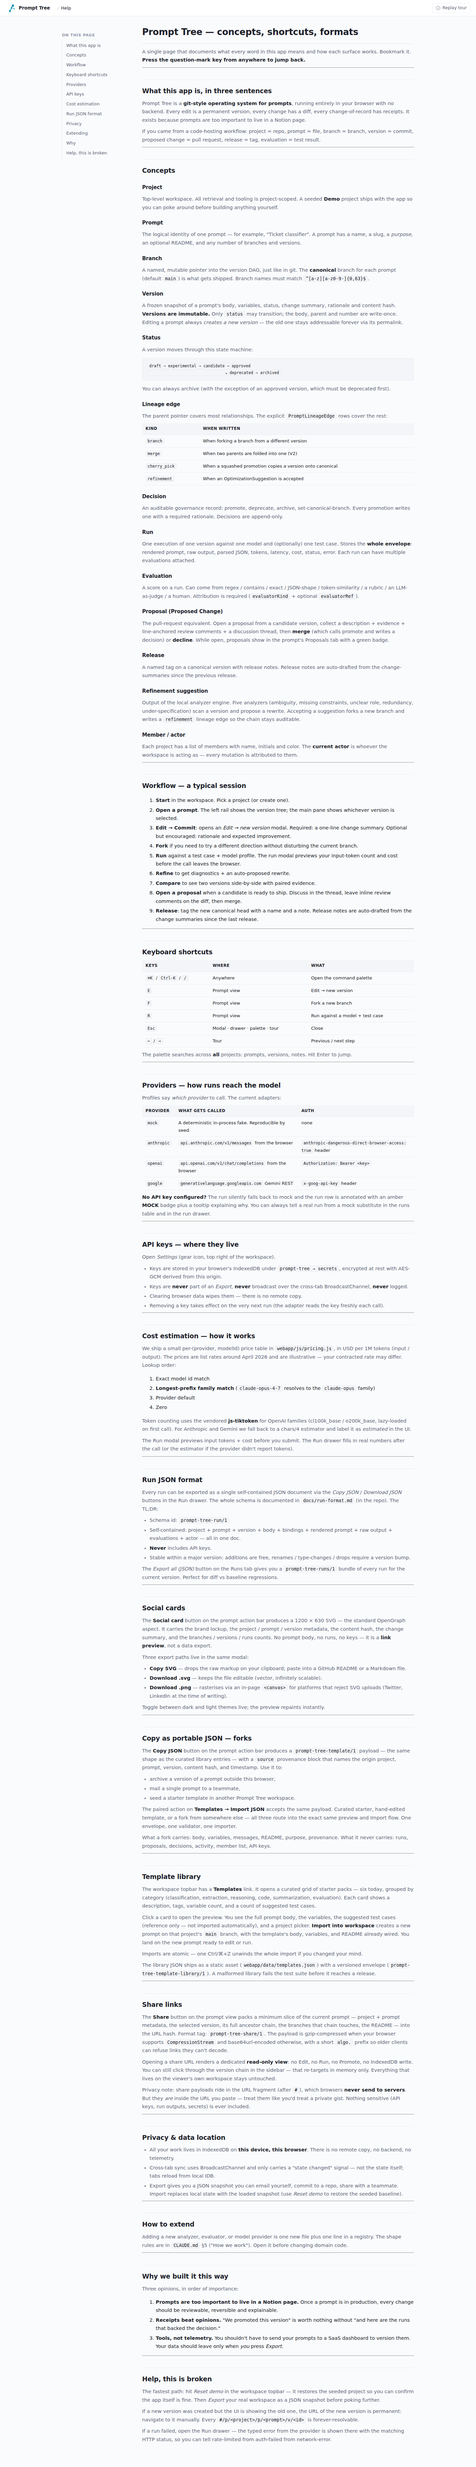
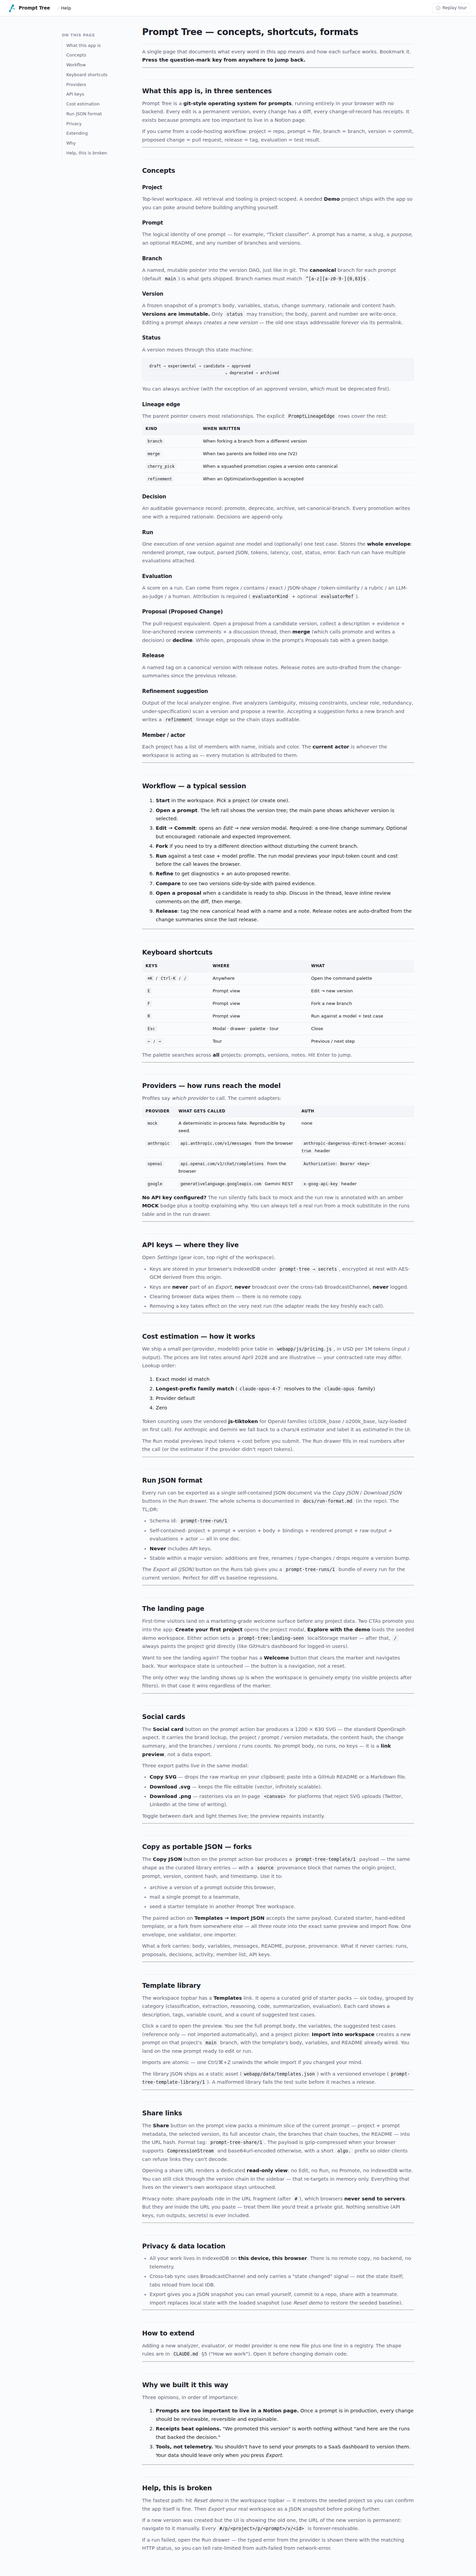
landing: fix demo CTA + state-aware primary, add Go-to-workspace path
Two fixes + one new path, all traced back to the user-reported "Explore
with the demo doesn't work":

1. Root-cause the double-render flash. The old handler called
   resetTo() BEFORE markLandingSeen(). resetTo's notify() triggered a
   re-render in which hasSeenLanding() was still false — so the
   landing re-rendered on top of the fresh state, only to flip to the
   grid on the follow-up navigate(). On slow machines or in real UX
   it read as "nothing happens". Now the marker is set first, so the
   post-resetTo render lands directly on the grid.

2. Add proper error handling. The handler silently toasted "Loaded
   the demo" even when seed.json returned an empty payload or HTTP
   500. Now: the button disables mid-click, a clean "Demo failed to
   load: <reason>" toast surfaces on failure, the marker is only set
   on success, and the button re-enables so the user can retry.

3. New state-aware CTA row. When the visitor reaches the landing via
   the Welcome button with projects already in state, offering
   "Explore with the demo" is actively dangerous — it would reset
   their workspace. The landing now branches its primary CTA on
   visibleProjects.length:
     • Empty   → Create your first project + Explore with the demo
     • Has any → Go to your workspace + Create a new project
   The second path never calls resetTo; it's pure navigation that
   flips the marker and re-renders the grid. The populated topbar
[…]

Changed region(s): [[0.2764, 0.0, 0.86, 0.997], [0.1229, 0.0, 0.215, 0.0623]]

diff --git a/scripts/landing-smoke.js b/scripts/landing-smoke.js
@@ -158,12 +158,13 @@ function fail(msg) { console.error("FAIL:", msg); process.exit(1); }
     await page.context().close();
   }
 
-  // ───────────── Test 4: gate — seeded workspace + no marker → landing ──
+  // ───────────── Test 4a: fresh visitor with real seed → landing first ──
   {
-    // Fresh context, no marker preset, real seed lands in IDB. We expect
-    // the landing page FIRST (not the grid) because the visitor hasn't
-    // acknowledged it yet. GitHub-style: marketing surface before
-    // dashboard until the user "signs in" (= takes a CTA).
+    // No marker preset, real seed auto-loads into IDB on boot. We
+    // expect the landing FIRST (not the grid) because the visitor
+    // hasn't acknowledged it. Because the visitor *has* projects
+    // (the seed), the hero CTAs must be Go-to-workspace + New-project
+    // — NOT Explore-with-the-demo (which would reset their data).
     const ctx = await browser.newContext({ viewport: { width: 1400, height: 900 } });
     await ctx.addInitScript(() => { try { localStorage.setItem("prompt-tree:tour:completed", "1"); } catch {} });
     const page = await ctx.newPage();
@@ -172,32 +173,136 @@ function fail(msg) { console.error("FAIL:", msg); process.exit(1); }
 
     await page.goto("http://localhost:4497/", { waitUntil: "networkidle" });
     await wait(500);
-    const heroVisible = await page.$(".landing-hero");
-    if (!heroVisible) fail("fresh visit with seeded demo should still show the landing first");
+    if (!(await page.$(".landing-hero"))) fail("fresh visit with seeded demo should still show the landing first");
 
-    // Click Explore-with-the-demo → flag should be set + grid appears.
-    await page.click('[data-act="load-demo"]');
-    await wait(800);
+    // Safety: if the visitor has projects, the demo CTA must be hidden
+    // and the go-to-workspace CTA must be present.
+    if (await page.$('.landing-ctas [data-act="load-demo"]')) {
+      fail("landing with existing projects must NOT show the Explore-with-the-demo CTA (would wipe data)");
+    }
+    if (!(await page.$('.landing-ctas [data-act="enter-workspace"]'))) {
+      fail("landing with existing projects must show a Go-to-workspace CTA");
+    }
+
+    // Clicking Go-to-workspace flips the marker + shows the grid, with
+    // the project list left intact.
+    const countBefore = await page.evaluate(async () => {
+      const s = await import("/js/store.js"); return (s.getState().projects || []).length;
+    });
+    await page.click('.landing-ctas [data-act="enter-workspace"]');
+    await wait(500);
     const flag = await page.evaluate(() => localStorage.getItem("prompt-tree:landing-seen"));
-    if (flag !== "1") fail(`expected landing-seen=1 after CTA, got ${flag}`);
-    const gridCards = await page.$$eval(".cards-grid > .card", (xs) => xs.length);
-    if (gridCards < 1) fail("after the CTA, grid should paint");
+    if (flag !== "1") fail(`expected landing-seen=1 after Go-to-workspace, got ${flag}`);
+    const cards = await page.$$eval(".cards-grid > .card", (xs) => xs.length);
+    if (cards < 1) fail(`Go-to-workspace did not paint the grid: ${cards} cards`);
+    const countAfter = await page.evaluate(async () => {
+      const s = await import("/js/store.js"); return (s.getState().projects || []).length;
+    });
+    if (countBefore !== countAfter) fail(`Go-to-workspace mutated state: ${countBefore} → ${countAfter}`);
 
-    // Reload — the visitor should now land on the grid directly, never
-    // on the landing again, until they clear the marker.
+    // Reload — the visitor should now land on the grid directly.
     await page.reload({ waitUntil: "networkidle" });
     await wait(400);
-    const landingOnSecondVisit = await page.$(".landing-hero");
-    if (landingOnSecondVisit) fail("returning visitor with marker should skip the landing");
+    if (await page.$(".landing-hero")) fail("returning visitor with marker should skip the landing");
 
     // The topbar "Welcome" action clears the marker and re-shows it.
     await page.click('[data-act="show-landing"]');
     await wait(400);
-    const landingAfterWelcome = await page.$(".landing-hero");
-    if (!landingAfterWelcome) fail("Welcome topbar action should re-reveal the landing");
+    if (!(await page.$(".landing-hero"))) fail("Welcome topbar action should re-reveal the landing");
 
-    if (errs.length) fail("test 4 console errors: " + errs.join(" | "));
-    console.log("✓ test 4: fresh → landing, CTA → flag + grid, return visit skips landing, Welcome re-reveals");
+    if (errs.length) fail("test 4a console errors: " + errs.join(" | "));
+    console.log("✓ test 4a: seeded visitor lands on landing → Go-to-workspace keeps data + paints grid; Welcome re-reveals landing");
+    await ctx.close();
+  }
+
+  // ───────────── Test 4b: empty seed + no marker → demo CTA works ──────
+  {
+    // Genuinely-new install path: no marker, empty seed. Clicking the
+    // Explore-with-the-demo CTA MUST:
+    //   - Fetch the real seed (we drop the stub after boot)
+    //   - Populate state with ≥ 1 project
+    //   - Set the marker
+    //   - Navigate to the grid (landing gone, cards present)
+    const ctx = await browser.newContext({ viewport: { width: 1400, height: 900 } });
+    let boot = true;
+    await ctx.route("**/data/seed.json", (route) => {
+      if (boot) {
+        boot = false;
+        route.fulfill({
+          status: 200, contentType: "application/json",
+          body: JSON.stringify({ meta: { updatedAt: 0, revision: 0, schemaVersion: 1, author: null }, projects: [] }),
+        });
+      } else {
+        // Let the real file through for the CTA fetch.
+        route.fallback();
+      }
+    });
+    await ctx.addInitScript(() => { try { localStorage.setItem("prompt-tree:tour:completed", "1"); } catch {} });
+    const page = await ctx.newPage();
+    const errs = [];
+    page.on("console", (m) => { if (m.type() === "error") errs.push("console: " + m.text()); });
+
+    await page.goto("http://localhost:4497/", { waitUntil: "networkidle" });
+    await wait(400);
+    if (!(await page.$(".landing-ctas [data-act=\"load-demo\"]"))) {
+      fail("empty seed + no marker must render the Explore-with-the-demo CTA");
+    }
+
+    await page.click('[data-act="load-demo"]');
+    await wait(900);
+    const flag = await page.evaluate(() => localStorage.getItem("prompt-tree:landing-seen"));
+    if (flag !== "1") fail(`load-demo must set the marker, got ${flag}`);
+    const cards = await page.$$eval(".cards-grid > .card", (xs) => xs.length);
+    if (cards < 1) fail(`load-demo must paint the grid: got ${cards} cards`);
+    const projects = await page.evaluate(async () => {
+      const s = await import("/js/store.js");
+      return (s.getState().projects || []).map((p) => p.slug);
+    });
+    if (!projects.includes("demo")) fail(`load-demo must populate state with the demo project; got ${JSON.stringify(projects)}`);
+    if (await page.$(".landing-hero")) fail("load-demo must leave the landing");
+
+    if (errs.length) fail("test 4b console errors: " + errs.join(" | "));
+    console.log("✓ test 4b: empty seed → load-demo CTA fetches real seed, sets marker, navigates to populated grid");
+    await ctx.close();
+  }
+
+  // ───────────── Test 5: Explore-demo surfaces a clean error when seed is broken ─
+  {
+    const ctx = await browser.newContext({ viewport: { width: 1400, height: 900 } });
+    await ctx.addInitScript(() => { try { localStorage.setItem("prompt-tree:tour:completed", "1"); } catch {} });
+    // First response on boot is OK so the landing paints. We'll switch
+    // to the broken response for the CTA fetch.
+    let boot = true;
+    await ctx.route("**/data/seed.json", (route) => {
+      if (boot) {
+        boot = false;
+        route.fulfill({
+          status: 200, contentType: "application/json",
+          body: JSON.stringify({ meta: { updatedAt: 0, revision: 0, schemaVersion: 1, author: null }, projects: [] }),
+        });
+      } else {
+        route.fulfill({ status: 500, contentType: "text/plain", body: "boom" });
+      }
+    });
+    const page = await ctx.newPage();
+    await page.goto("http://localhost:4497/", { waitUntil: "networkidle" });
+    await wait(400);
+
+    await page.click('[data-act="load-demo"]');
+    await wait(600);
+    const toastText = await page.$eval("#toast", (el) => el.textContent.trim()).catch(() => "");
+    if (!/Demo failed/i.test(toastText)) {
+      fail(`expected a 'Demo failed' toast on broken seed, got: '${toastText}'`);
+    }
+    const flag = await page.evaluate(() => localStorage.getItem("prompt-tree:landing-seen"));
+    if (flag === "1") fail("landing-seen must NOT be set when demo load fails");
+    const stillOnLanding = !!(await page.$(".landing-hero"));
+    if (!stillOnLanding) fail("broken demo fetch: visitor must stay on the landing");
+    // Button must be re-enabled so the user can retry.
+    const disabled = await page.$eval('[data-act="load-demo"]', (el) => el.disabled);
+    if (disabled) fail("load-demo button stuck in disabled state after an error");
+
+    console.log("✓ test 5: broken seed → error toast, landing stays, flag not set, button re-enabled");
     await ctx.close();
   }
 

diff --git a/webapp/js/views/workspace.js b/webapp/js/views/workspace.js
@@ -92,12 +92,37 @@ function projectsGrid(projects) {
 }
 
 // ---------------------------------------------------------------------------
-// Landing page (E1) — only reachable when projects.length === 0. Sells what
-// the app is, directly; two CTAs (create project, load the seeded demo) +
-// a Templates link. No topbar action row — we want the first impression
-// uncluttered.
+// Landing page (E1). Two modes, keyed on whether the visitor already has
+// visible projects:
+//
+//   • Empty workspace → "Create your first project" + "Explore with the demo"
+//     (the classic first-impression surface for brand-new visitors).
+//   • Has projects   → "Go to your workspace" + "Create a new project"
+//     (the visitor reached the landing via the Welcome button and just
+//     wants back in — we don't offer the demo-reset here because it
+//     would wipe their actual workspace).
+//
+// The topbar stays minimal: no export/import/reset row; just brand +
+// Templates + Help + Theme so the first impression stays focused.
 // ---------------------------------------------------------------------------
 function renderLanding() {
+  const s = getState();
+  const visibleProjects = (s.projects || []).filter((p) => !p.archivedAt && !p.deletedAt);
+  const hasProjects = visibleProjects.length > 0;
+
+  const ctas = hasProjects ? `
+    <button class="btn accent lg" data-act="enter-workspace">${icon("arrow", { size: 14 })} Go to your workspace</button>
+    <button class="btn lg" data-act="new-project">${icon("plus", { size: 14 })} Create a new project</button>
+  ` : `
+    <button class="btn accent lg" data-act="new-project">${icon("plus", { size: 14 })} Create your first project</button>
+    <button class="btn lg" data-act="load-demo">${icon("play", { size: 14 })} Explore with the demo</button>
+  `;
+
+  const subCta = hasProjects
+    ? `You have <strong>${visibleProjects.length}</strong> project${visibleProjects.length === 1 ? "" : "s"} already.
+       Or <a href="#/templates">browse the template library</a> for curated starter prompts.`
+    : `Or <a href="#/templates">browse the template library</a> — six curated starter prompts ready to import.`;
+
   return html`
     <div class="topbar topbar-landing">
       <a class="topbar-logo" href="#/">
@@ -105,6 +130,7 @@ function renderLanding() {
         Prompt Tree
       </a>
       <span class="topbar-spacer"></span>
+      ${hasProjects ? `<button class="topbar-action" data-act="enter-workspace">${icon("arrow", { size: 13 })} Workspace</button>` : ""}
       <a class="topbar-action" href="#/templates">${icon("rubric", { size: 13 })} Templates</a>
       <a class="topbar-action" href="#/help">${icon("info", { size: 13 })} Help</a>
       <button class="topbar-action" data-act="theme">${icon(currentTheme() === "dark" ? "sun" : "moon", { size: 13 })}</button>
@@ -125,11 +151,10 @@ function renderLanding() {
           browser. No backend, no telemetry, no lock-in.
         </p>
         <div class="landing-ctas reveal reveal-ctas">
-          <button class="btn accent lg" data-act="new-project">${icon("plus", { size: 14 })} Create your first project</button>
-          <button class="btn lg" data-act="load-demo">${icon("play", { size: 14 })} Explore with the demo</button>
+          ${ctas}
         </div>
         <div class="landing-subcta reveal reveal-subcta">
-          Or <a href="#/templates">browse the template library</a> — six curated starter prompts ready to import.
+          ${subCta}
         </div>
       </section>
 
@@ -213,16 +238,43 @@ export function bindWorkspace(root) {
 
   // Landing-page specific: load the seeded demo into an empty workspace.
   // Reuses the same `resetTo` path the topbar "Reset demo" uses; no
-  // confirm dialog because there's literally nothing to lose. Setting
-  // the landing-seen marker is what promotes the visitor from the
-  // marketing surface to the workspace proper.
-  root.querySelector('[data-act="load-demo"]')?.addEventListener("click", async () => {
-    const seed = await fetch("./data/seed.json").then((r) => r.json());
-    const { resetTo } = await import("../store.js");
-    await resetTo(seed);
-    markLandingSeen();
-    toast("Loaded the demo");
-    navigate("/");
+  // confirm dialog because there's literally nothing to lose. The
+  // marker is set BEFORE resetTo so the notify() that fires from
+  // resetTo's state replacement renders directly onto the grid — no
+  // flash of the landing re-appearing in between.
+  root.querySelector('[data-act="load-demo"]')?.addEventListener("click", async (e) => {
+    const btn = e.currentTarget;
+    if (btn.disabled) return;
+    btn.disabled = true;
+    try {
+      const res = await fetch("./data/seed.json", { cache: "no-cache" });
+      if (!res.ok) throw new Error(`seed.json returned HTTP ${res.status}`);
+      const seed = await res.json();
+      if (!seed || !Array.isArray(seed.projects) || seed.projects.length === 0) {
+        throw new Error("seed.json carries no projects");
+      }
+      markLandingSeen();
+      const { resetTo } = await import("../store.js");
+      await resetTo(seed);
+      toast("Loaded the demo");
+      navigate("/");
+    } catch (err) {
+      console.error("load-demo failed:", err);
+      toast("Demo failed to load: " + (err.message || err));
+      btn.disabled = false;
+    }
+  });
+
+  // Landing → grid: direct escape hatch for returning users who hit
+  // the landing via the Welcome button and just want back in. Does
+  // NOT reset state — purely a marker flip + navigate. There can be
+  // multiple of these on the page (hero CTA + topbar shortcut), so
+  // wire all of them.
+  root.querySelectorAll('[data-act="enter-workspace"]').forEach((el) => {
+    el.addEventListener("click", () => {
+      markLandingSeen();
+      navigate("/");
+    });
   });
 
   root.querySelector('[data-act="export"]')?.addEventListener("click", async () => {

diff --git a/webapp/js/views/help.js b/webapp/js/views/help.js
@@ -240,7 +240,11 @@ logged-in users).
 
 Want to see the landing again? The topbar has a **Welcome** button
 that clears the marker and navigates back. Your workspace state is
-untouched — the button is a navigation, not a reset.
+untouched — the button is a navigation, not a reset. When you come
+back to the landing this way, the primary CTA becomes **Go to your
+workspace** (a straight re-entry, *never* a data reset) and the
+demo-loader option disappears so your projects are safe from an
+accidental click.
 
 The only other way the landing shows up is when the workspace is
 genuinely empty (no visible projects after filters). In that case it

diff --git a/CLAUDE.md b/CLAUDE.md
@@ -176,7 +176,16 @@ prompts. Where competitors collect prompts, we **graduate** them.
   "signs up" by taking a CTA, then dashboard forever). The populated
   topbar gained a **Welcome** button that clears the marker so the
   landing is reachable any time. When the workspace has zero visible
-  projects, the landing always wins regardless of the marker. Landing
+  projects, the landing always wins regardless of the marker. The
+  CTAs are state-aware: visitors with existing projects see a primary
+  **Go to your workspace** button (pure navigation — never resets
+  their data) plus *Create a new project*; genuinely-fresh visitors
+  see *Create your first project* + *Explore with the demo*. The
+  demo loader marks the landing seen *before* calling `resetTo` so
+  the re-render lands directly on the grid without flashing the
+  landing a second time, guards against a broken `seed.json` with a
+  visible error toast (the marker is only set on success), and
+  disables the button mid-click to block double submits. Landing
   surface itself:
   animated brand mark, `Prompt Tree` gradient wordmark, tagline
   ("Branch. Prove. Ship."), 2-3-sentence pitch, two primary CTAs
@@ -227,7 +236,7 @@ Contract: nothing in this app is a one-way door except the explicit
 | **Templates smoke** | `scripts/templates-smoke.js` — `/templates` grid paints ≥ 3 cards → preview modal shows body + Import CTA → import creates a new prompt in the demo project with the template body preserved → Ctrl+Z unwinds the import atomically. |
 | **Fork smoke** | `scripts/fork-smoke.js` — Copy-JSON modal emits a valid `prompt-tree-template/1` with a `source` block → paste into `/templates` → preview shows the same body → import creates a new prompt with byte-identical body → Ctrl+Z unwinds. Also asserts malformed paste surfaces a friendly inline error. |
 | **Social-card smoke** | `scripts/social-card-smoke.js` — modal opens with a 1200 × 630 inline SVG preview carrying the project / prompt / version metadata; theme toggle dark ↔ light actually repaints the preview; Download .svg fires a real download event with a `prompttree-social-*.svg` filename. |
-| **Landing smoke** | `scripts/landing-smoke.js` — with the seed stubbed to an empty workspace, `/` paints the hero / 3 pillars / 2 feature columns; hero uses `mark-hero.svg` and splits the tagline into three `.reveal-word` spans; under `prefers-reduced-motion: reduce` the src swaps to static `mark.svg` and reveal opacity is 1 instantly; *Explore with the demo* loads the real seed and repaints the grid; *Create your first project* opens the New-project modal; landing topbar never carries the populated action row. Gate check: fresh visit with real seeded demo still shows the landing first, CTA sets `prompt-tree:landing-seen=1`, reload skips the landing, **Welcome** topbar action clears the marker and re-reveals it. |
+| **Landing smoke** | `scripts/landing-smoke.js` — 7 tests. Empty workspace paints hero / 3 pillars / 2 feature columns with `mark-hero.svg` + 3 `.reveal-word` spans; `prefers-reduced-motion` swaps to static mark + instant reveal; *Explore with the demo* loads the real seed and paints the grid; *Create your first project* opens the New-project modal; landing topbar never carries the populated action row; fresh visit with a real seeded demo shows the landing first with the state-aware *Go to your workspace* CTA (not the demo reset — that would wipe the user's data); Go-to-workspace keeps state intact, sets the marker, paints the grid; reload skips the landing; **Welcome** topbar clears the marker and re-reveals the landing; broken `seed.json` surfaces a *Demo failed* toast, leaves the visitor on the landing, does NOT set the marker, and re-enables the button for retry. |
 
 ### 2.8 Security status (browser-only runtime)
 
